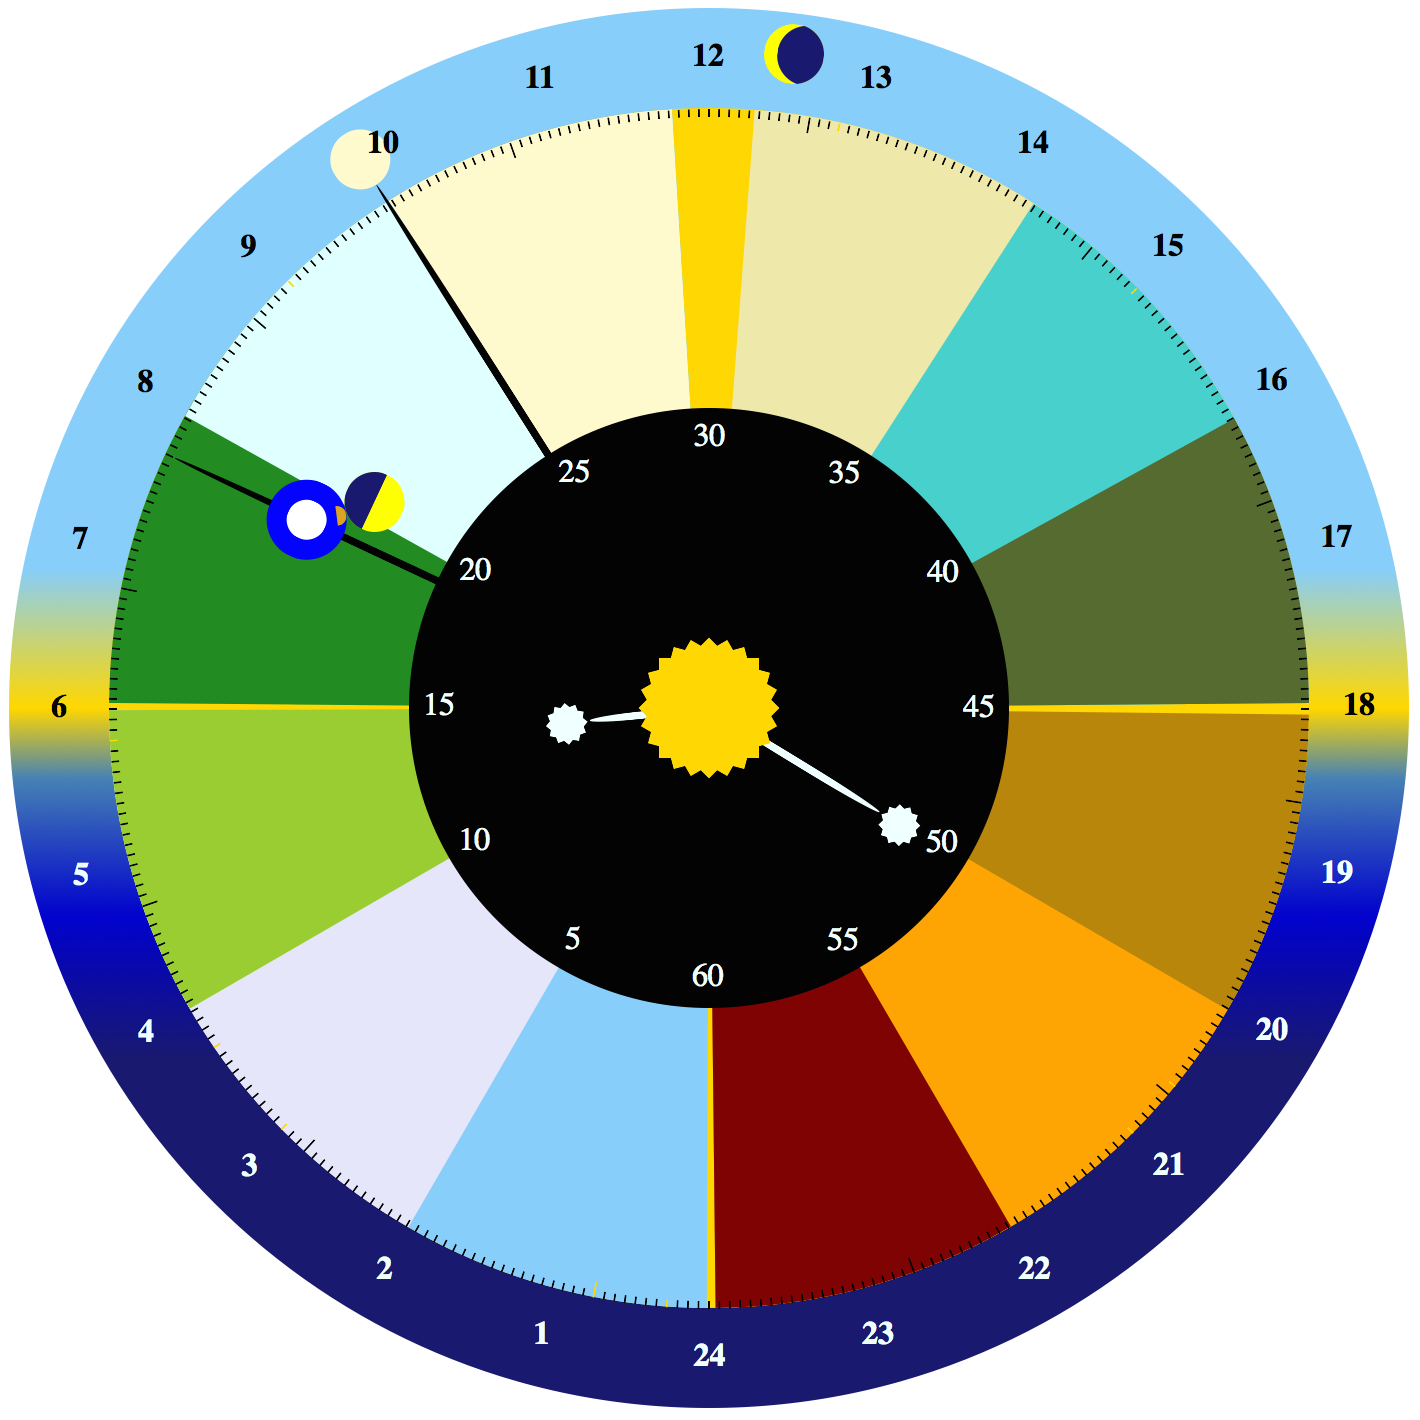
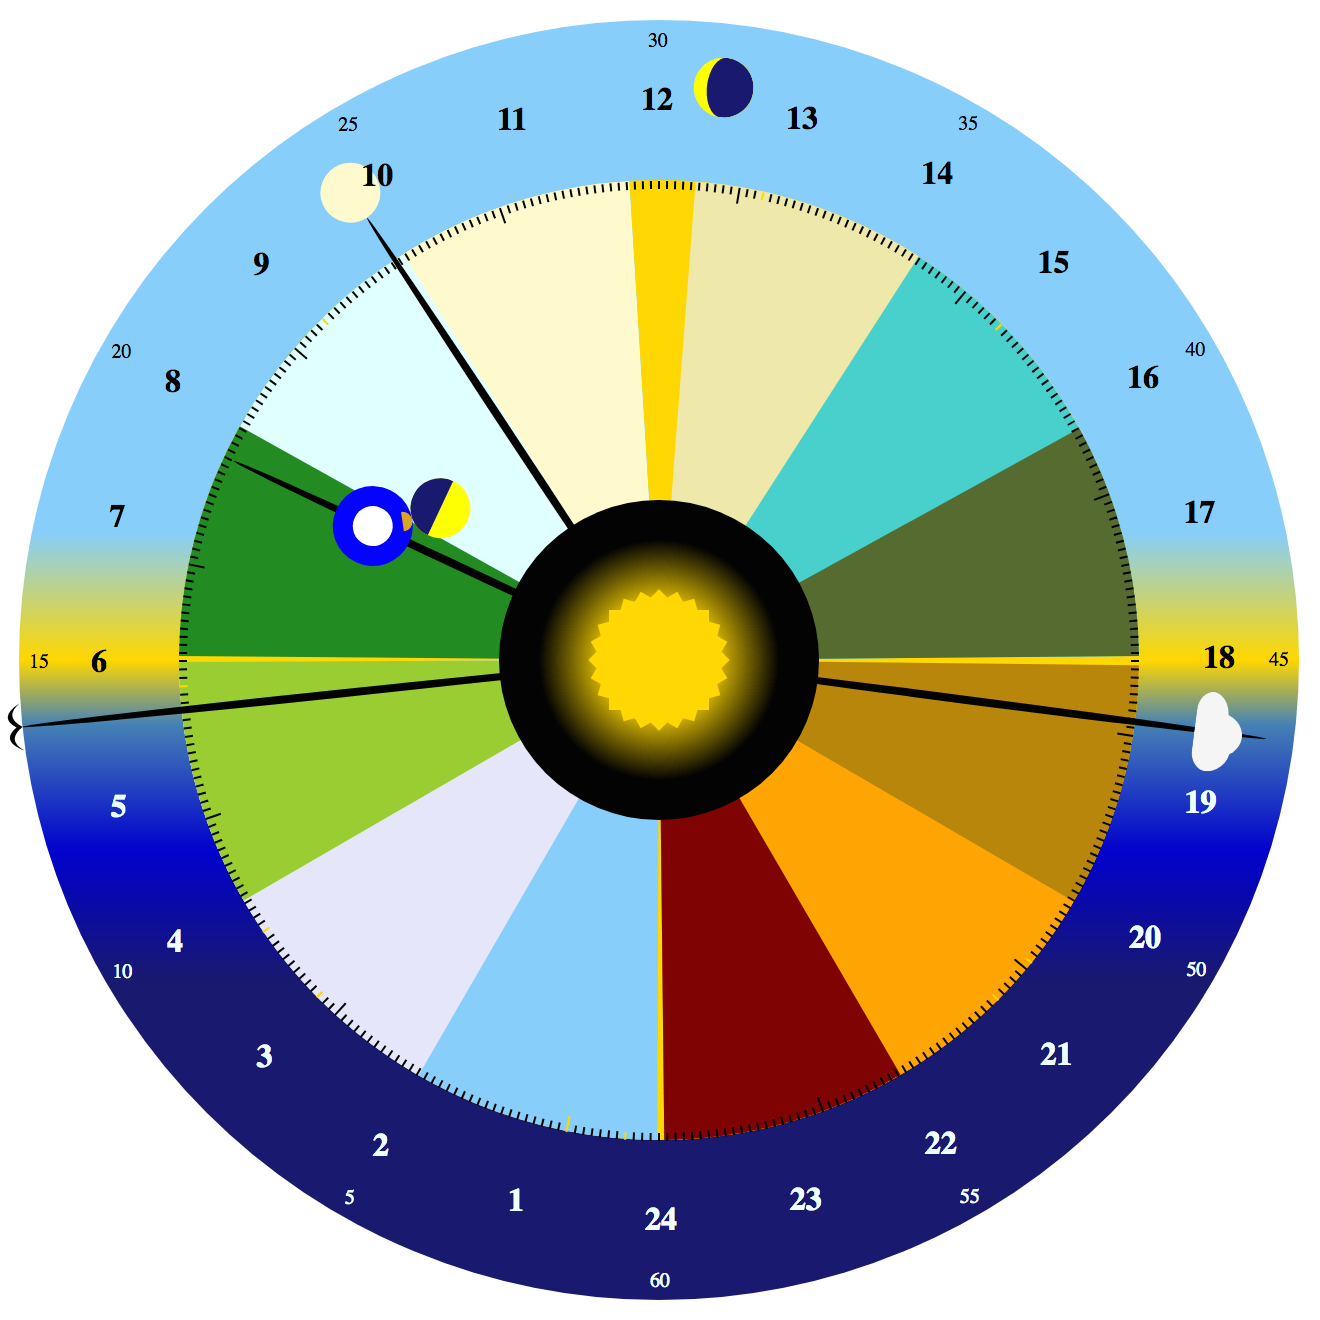
Update README and screenshots for new styles.

diff --git a/README.md b/README.md
@@ -5,13 +5,19 @@ If the year was divided into a 24-hour clock,
 centered around the [solstices](http://en.wikipedia.org/wiki/Solstice) and [equinoxes](http://en.wikipedia.org/wiki/Equinox),
 then what time of the year would it be now?
 
-To answer this question, I created this 'Season Clock' with just some HTML, CSS, and javascript.
+To answer this question, I created this Lunisolar Chronometer, or 'Season Clock' if you will,
+rendered and animated with just HTML, CSS, and a dash of SVG,
+then positioned by javascript according to the current time and date of the device with which you are viewing this clock.
+
 Inspired by the way the [Shire Reckoning Calendar](http://psarando.github.io/shire-reckoning) divides the year,
 this clock starts each year on Dec. 21st, at midnight at the bottom of the clock,
-and marks June 21st at noon (in non-leap years) at the top of the clock.
+and marks June 21st at noon (in non-leap years) at the top of the clock,
+indicating the day of the year with the shortest hand of this clock (the "day hand").
 
-The outer edge of the clock shows the hour of the day,
-and the center of the clock shows the current minute and seconds.
+The outer ring of this clock indicates the time of day,
+with minute and second hands that read like a typical clock you are probably familiar with:
+the longest (bird) hand indicates seconds, the next longest (cloud) hand indicates minutes,
+but the third longest (sun) hand indicates the hour of the day in a 24-hour-clock style.
 
 The middle part of the clock is divided into colored sections,
 each spanning the average length of a Moon cycle (about 29.5 days);
@@ -19,19 +25,20 @@ in other words, each colored section is about 1-moonth of the year.
 The remaining days of the year are centered symmetrically near the dates of the
 [solstices](http://en.wikipedia.org/wiki/Solstice) and [equinoxes](http://en.wikipedia.org/wiki/Equinox).
 Notice that there are more days in the half of the year around the June solstice than there are around the December solstice,
-so the gold-colored, extra-days section is larger around the June solstice.
+so the gold-colored, "extra-days" section is larger around the June solstice.
 
 Each day of the year is marked with a small tick around the edge of the middle, seasonal part of the clock.
 The first of each month of the Gregorian calendar is marked with a larger tick.
 
-To make the clock a little more interesting, the 'year hand' that marks the current day of the year
+To make the clock a little more interesting, the "day hand" that marks the current day of the year
 also has a representation of the Earth with its moon in orbit,
-and the Earth will move up and down the 'year hand' toward the central sun
+and the Earth will move up and down the "day hand" toward the center
 or toward the outer edge of the clock in approximate relation to the Earth's distance from the Sun.
 
 The outer edge of the clock also has a moon icon that will change its phase
 to show the approximate phase of the actual Moon,
-and it rotates around the edge in a way that approximates the actual Moon's distance from the Sun in the sky.
+and it rotates around the edge in a way that approximates the actual Moon's rising, setting,
+and distance from the Sun in the sky.
 
 ## This is not a scientific instrument
 
@@ -43,8 +50,8 @@ March 20th (in non-leap years) at 6AM on the left of the clock,
 June 21st (in non-leap years) at noon at the top of the clock,
 and September 22nd at 6PM at the right of the clock.
 Also keep in mind that the moon phases
-and the Earth, Moon, and Sun relative distances are just approximations,
-and are not to scale.
+and the Earth, Moon, and Sun relative distances are just approximations, and are not to scale;
+and Sun and Moon positions in the outer ring are even less approximate when the current time is set according to DST!
 
 ## Example Screenshots
 
@@ -58,18 +65,18 @@ and about 1 day before a full moon.
 
 ![2015-01-04 03:10:06](season-clock-jan-04.png)
 
-April 15th, 2015 at 09:50:14, with a waning crescent moon.
+April 15th, 2015 at 09:46:14, with a waning crescent moon.
 
-![2015-04-15 09:50:14](season-clock-apr-15.png)
+![2015-04-15 09:46:14](season-clock-apr-15.png)
 
 June 20th, 2015 at 19:21:07, with a waxing crescent moon, before its 1st quarter.
 
 ![2015-06-20 19:21:07](season-clock-jun-20.png)
 
-July 4th, 2015 at 19:20:36, near Earth's aphelion (furthest from the Sun)
+July 4th, 2015 at 19:22:37, near Earth's aphelion (furthest from the Sun)
 and with a waning gibbous moon.
 
-![2015-07-04 19:20:36](season-clock-jul-04.png)
+![2015-07-04 19:22:37](season-clock-jul-04.png)
 
 September 13th, 2015 at 06:41:23, during a solar eclipse.
 
